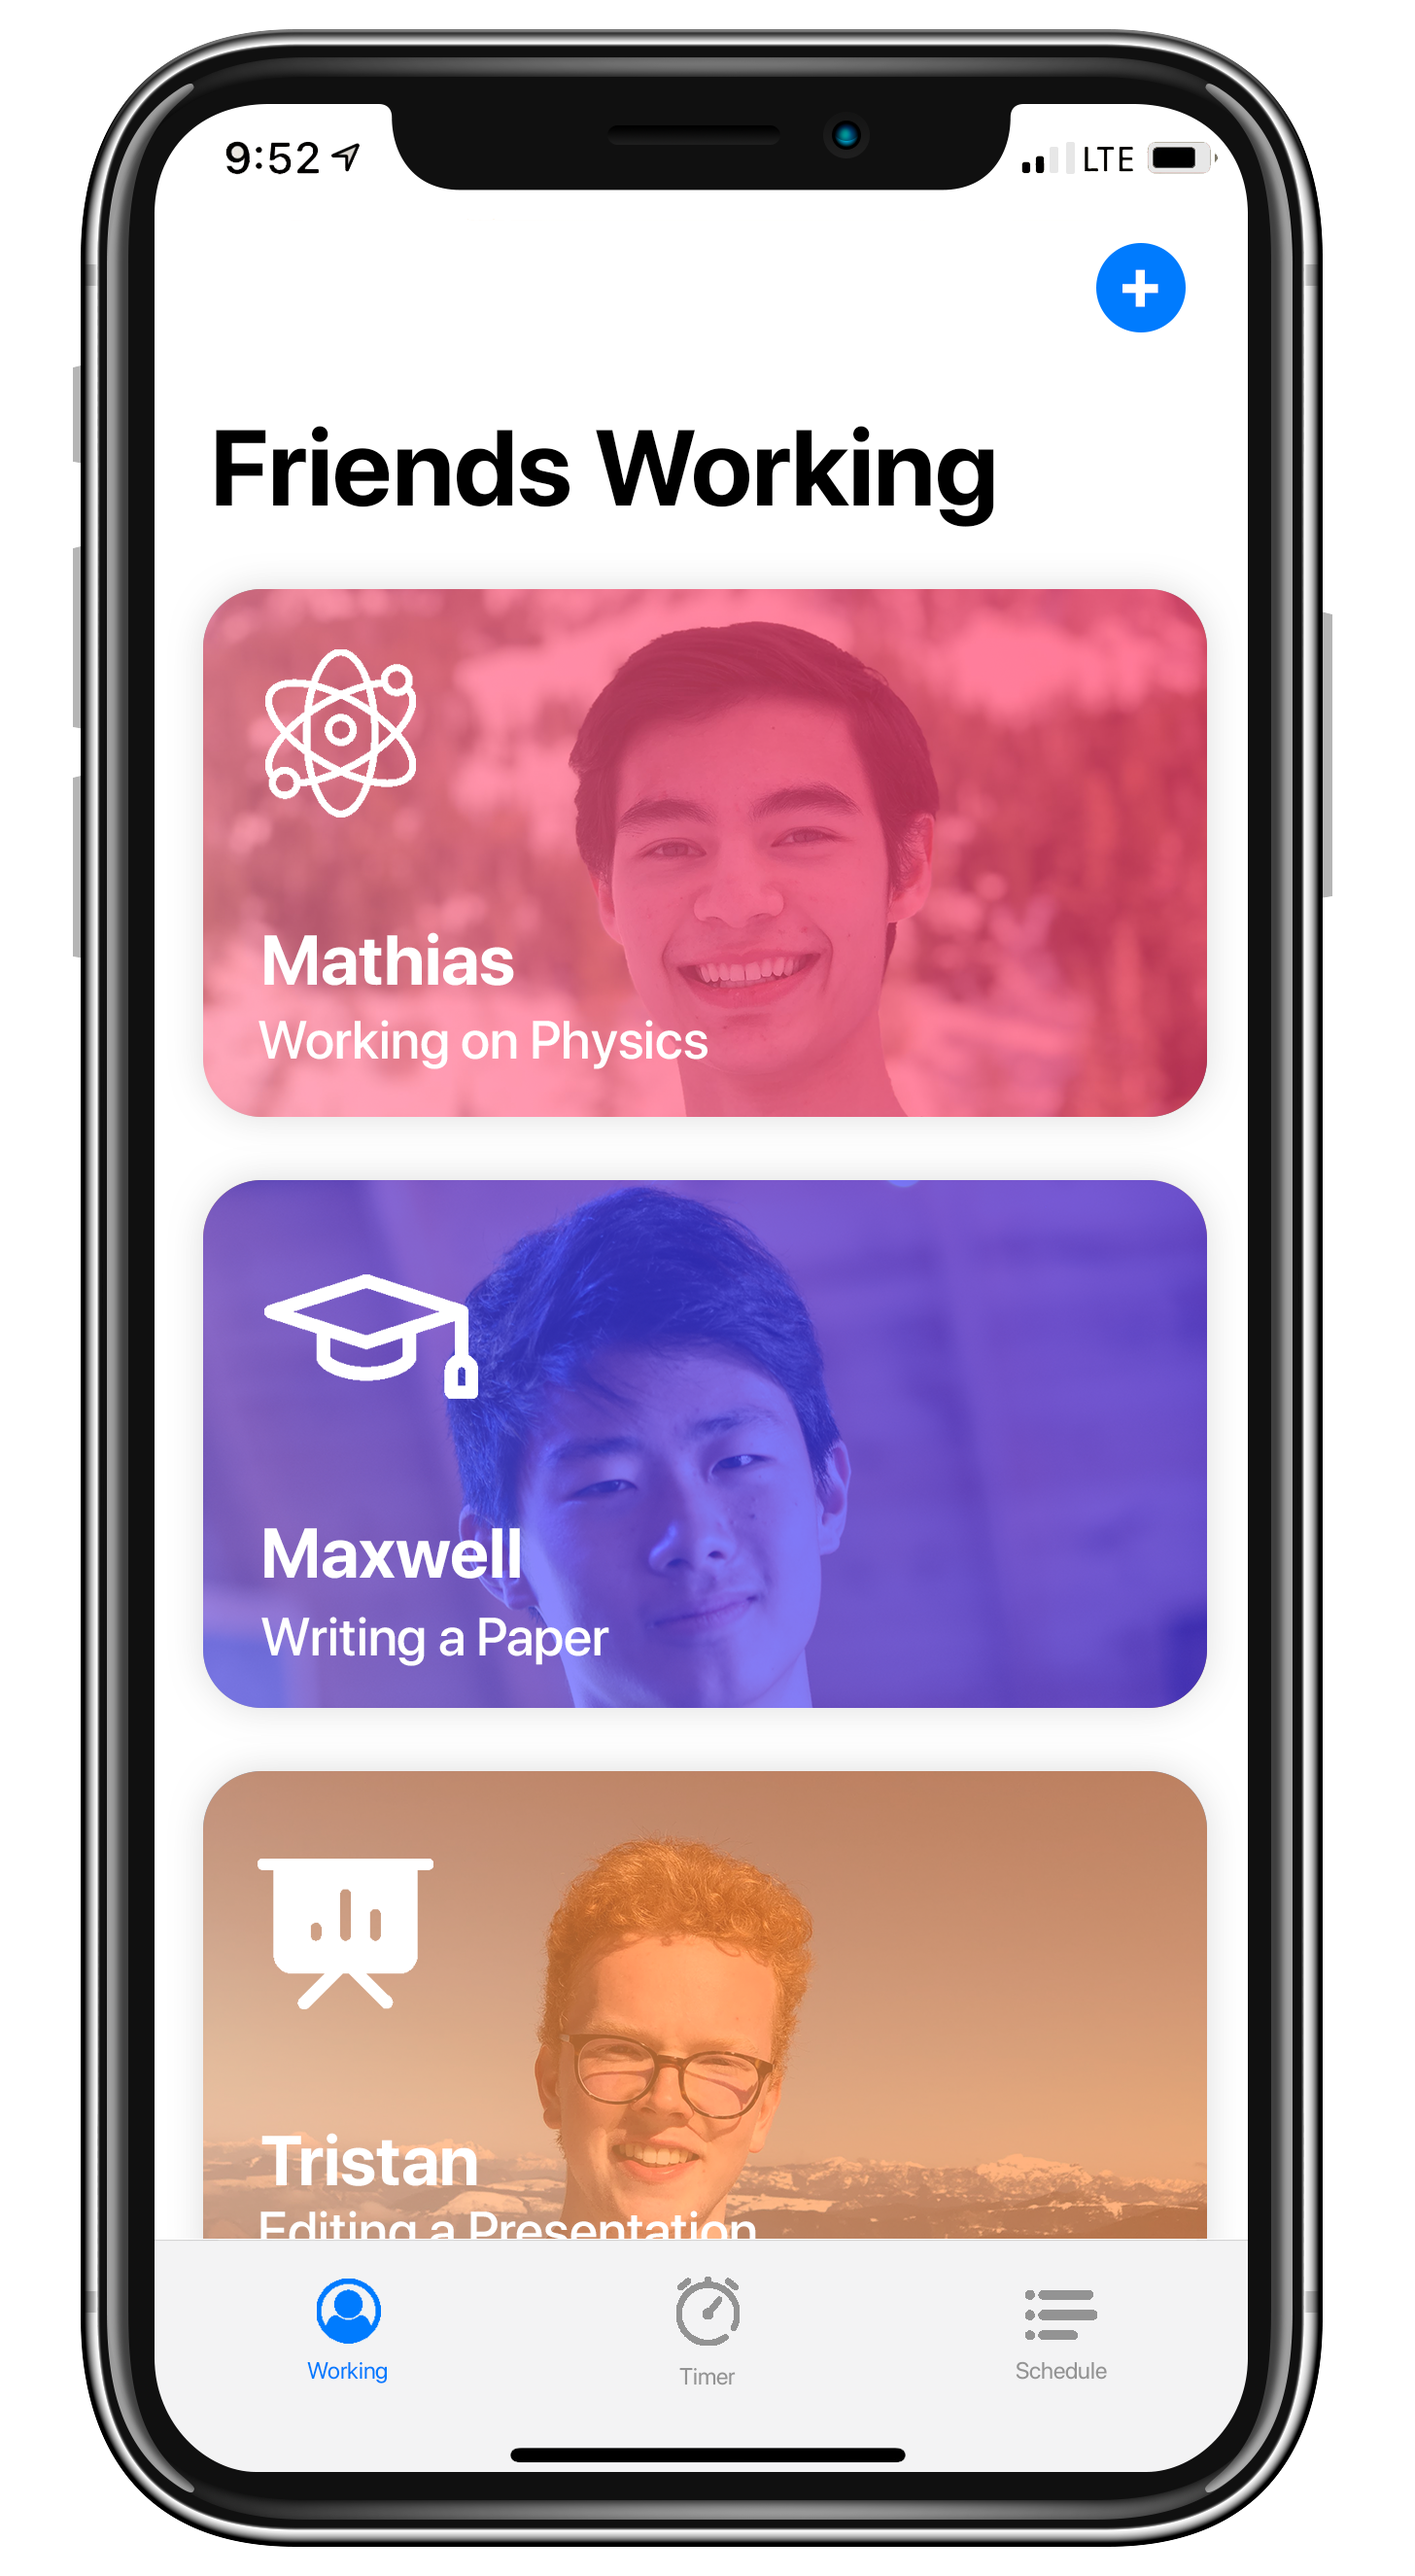
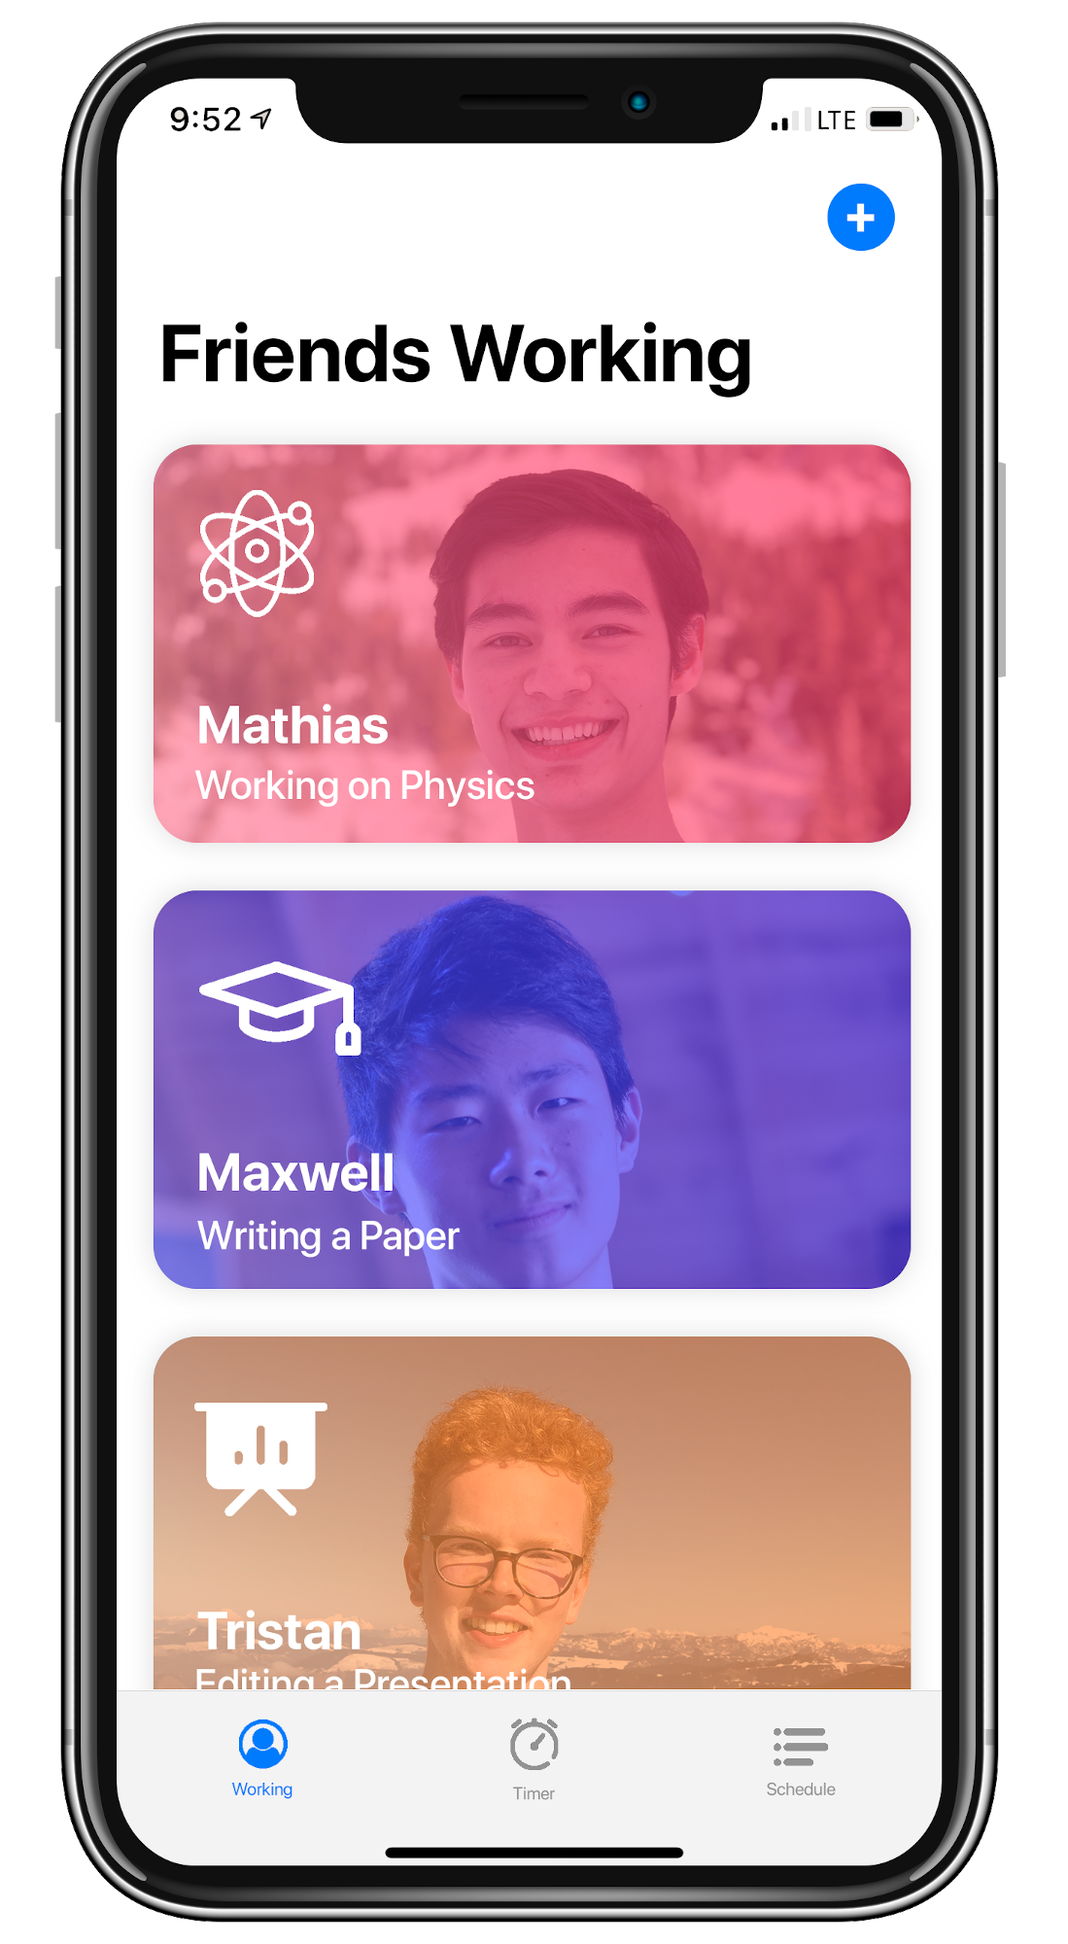
shrunk an image

diff --git a/index.html b/index.html
@@ -2,6 +2,8 @@
 <html lang="">
 
 <head>
+    <link rel="preload" href="images/workingwithfriends.png" as="image">
+
     <meta name="viewport" content="width=device-width, initial-scale=1"/>
     <meta http-equiv="Cache-control" content="public">
     <meta charset="utf-8">
